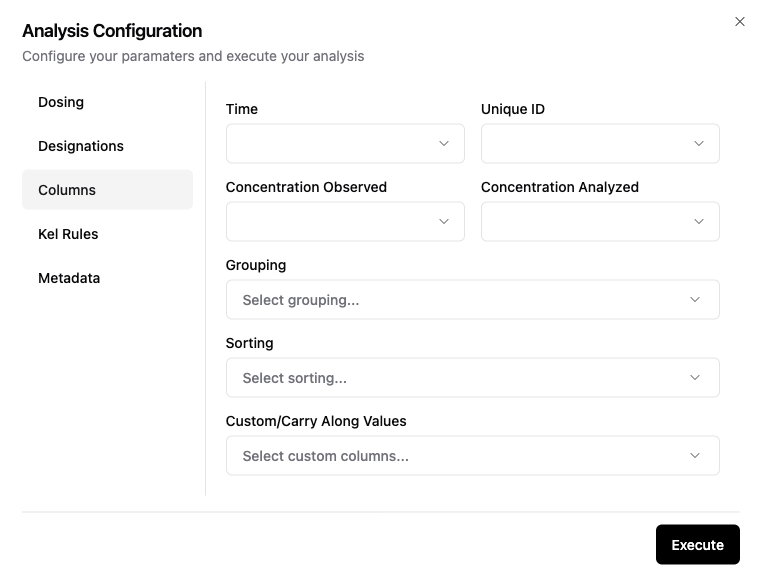
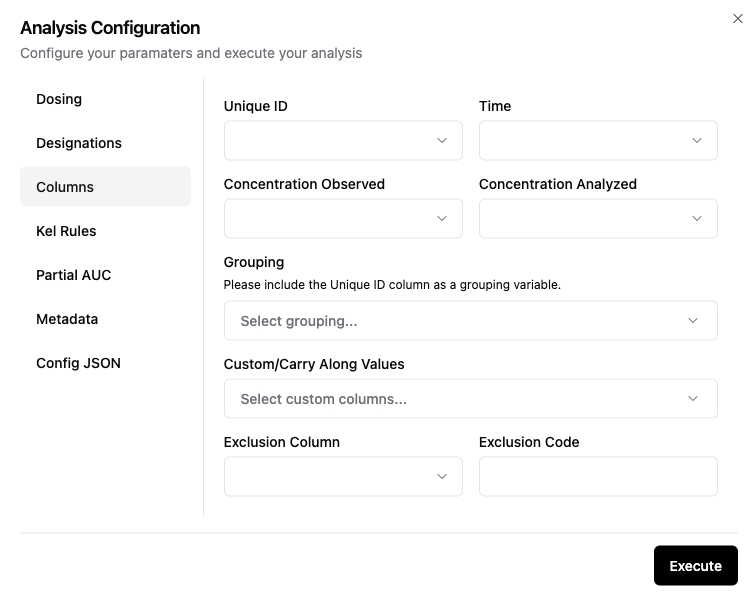
Updates to documentation for partial AUC and exclusion columns
Updates for January 2025 release

diff --git a/docs/methods/config-pauc.md b/docs/methods/config-pauc.md
@@ -1,0 +1,49 @@
+# 🟤 Partial AUC
+
+Partial AUCs are user-defined ranges for calculation of area under the curve. The user must define the following information for each partial AUC to be calculated:
+
+* Name: This is what will appear in the output in the "param" column. Normally this is a clear explanation of the parameter such as "Partial AUC0-4 hours"
+* Code: This is what will appear in the output in the "paramcd" column. Normally this is an abbreviation to unqiuely identify the parameter when using coding. One example could be "pAUC4".
+* Start: This is the start time for the partial AUC. This value is assumed to be in the same units as the time variable in the dataset.
+* End: This is the end time for the partial AUC. This value is assumed to be in the same units as the time variable in the dataset.
+
+## Calculation method
+
+The partial AUC is calculated using the [linear trapezoidal method](./aucmethods.md). If either the start time or end time for the partial AUC is present in the profile, the observed concentrations (and all observed concentrations in between) will be used for the calculation of the partial AUC. If the start time or end time is not present in the profile, the concentration will be imputed using [linear interpolation](./extrapolationmethods.md) between the two adjacent time points. The imputed concentrations will then be used for the partial AUC calculation. The imputed concentration values are not provided in the output.
+
+> [!NOTE]
+> If the end time extends beyond the available data the partial AUC will not be calculated and will be reported in the non-fatal error text file in the output. For example, if the final observed value is at 23.5 hours and you ask for the partial AUC from 0 - 24 hours, it will not be calculated. 
+
+## Input for web configuration
+![Partial AUC configuration input](./images/pAUC_input.png)
+
+Enter information in all 4 boxes and click the :heavy_plus_sign: button. You can click the trash can button to remove a set of values you entered. You can add as many partial AUCs as desired. 
+
+## 
+> [!TIP]
+> Make sure you click the :heavy_plus_sign: button after entering your partial AUC information. If a trash can does not appear next to your partial AUC, it will not be included in the analysis.
+
+
+## Manual JSON structure
+If you are performing analysis using a formatted JSON file, you must structure the partial AUC using standard JSON structures. The "partial_auc" section is at the top level of the configuration JSON. An example with 2 partial AUCs is below:
+
+```js
+{
+  "partial_auc": [
+    {
+      "name": "Partial AUC0-4 hours",
+      "code": "pAUC4",
+      "start": 0,
+      "end": 4
+    },
+    {
+      "name": "Partial AUC4-8 hours",
+      "code": "pAUC8",
+      "start": 4,
+      "end": 8
+    }
+  ]
+}
+```
+
+

diff --git a/docs/methods/config-columns.md b/docs/methods/config-columns.md
@@ -9,8 +9,10 @@ A description of each setting on the Data Columns configuration screen is below:
 |Concentration Observed|Observed concentration that includes text designations for samples below the limit of quantitation or missing samples|Required|
 |Concentration Analyzed|Concentration to be used in the calculation of PK parameters. Imputations for missing samples and/or samples below the limit of quantation must be made in this column|Required|
 |Grouping variables|Any grouping variables needed to define unique PK profiles for analysis|1 column is required, additional columns are optional. For sparse data, Unique ID is ignored as a grouping variable, and thus at least one other grouping variable must be provided.|
-|Sorting|This is how the data is sorted prior to analysis for each unique profile. Generally include the time column variable|1 column is required, additional columns are optional|
+|Sorting|This is how the data is sorted prior to analysis for each unique profile. Generally include the time column variable. This column has been removed from the web user interface as it is generally not needed.|1 column is required, additional columns are optional|
 |Custom/Carry Along Values|These are columns with information that will be added to the output files, but is not used group grouping. All grouping variables are automatically added as Custom variables during the analysis by the Aplos NCA engine. This ensures that all grouping variables are included in the output datasets.|Optional|
+|Exclusion Column|This column is used to exclude data from the analysis. Select the column that has the exclusion codes.|Optional|
+|Exclusion Code|This is the code for exclusions within the selected exclusion column. For example, it may be "N" or it may be the number "1". Only a single exclusion code is permitted. |Optional. Required if Exclusion column is selected.|
 
 **Figure 1: Columns configuration input screen**
 ![Column configuration input](./images/Columns_input.png)
